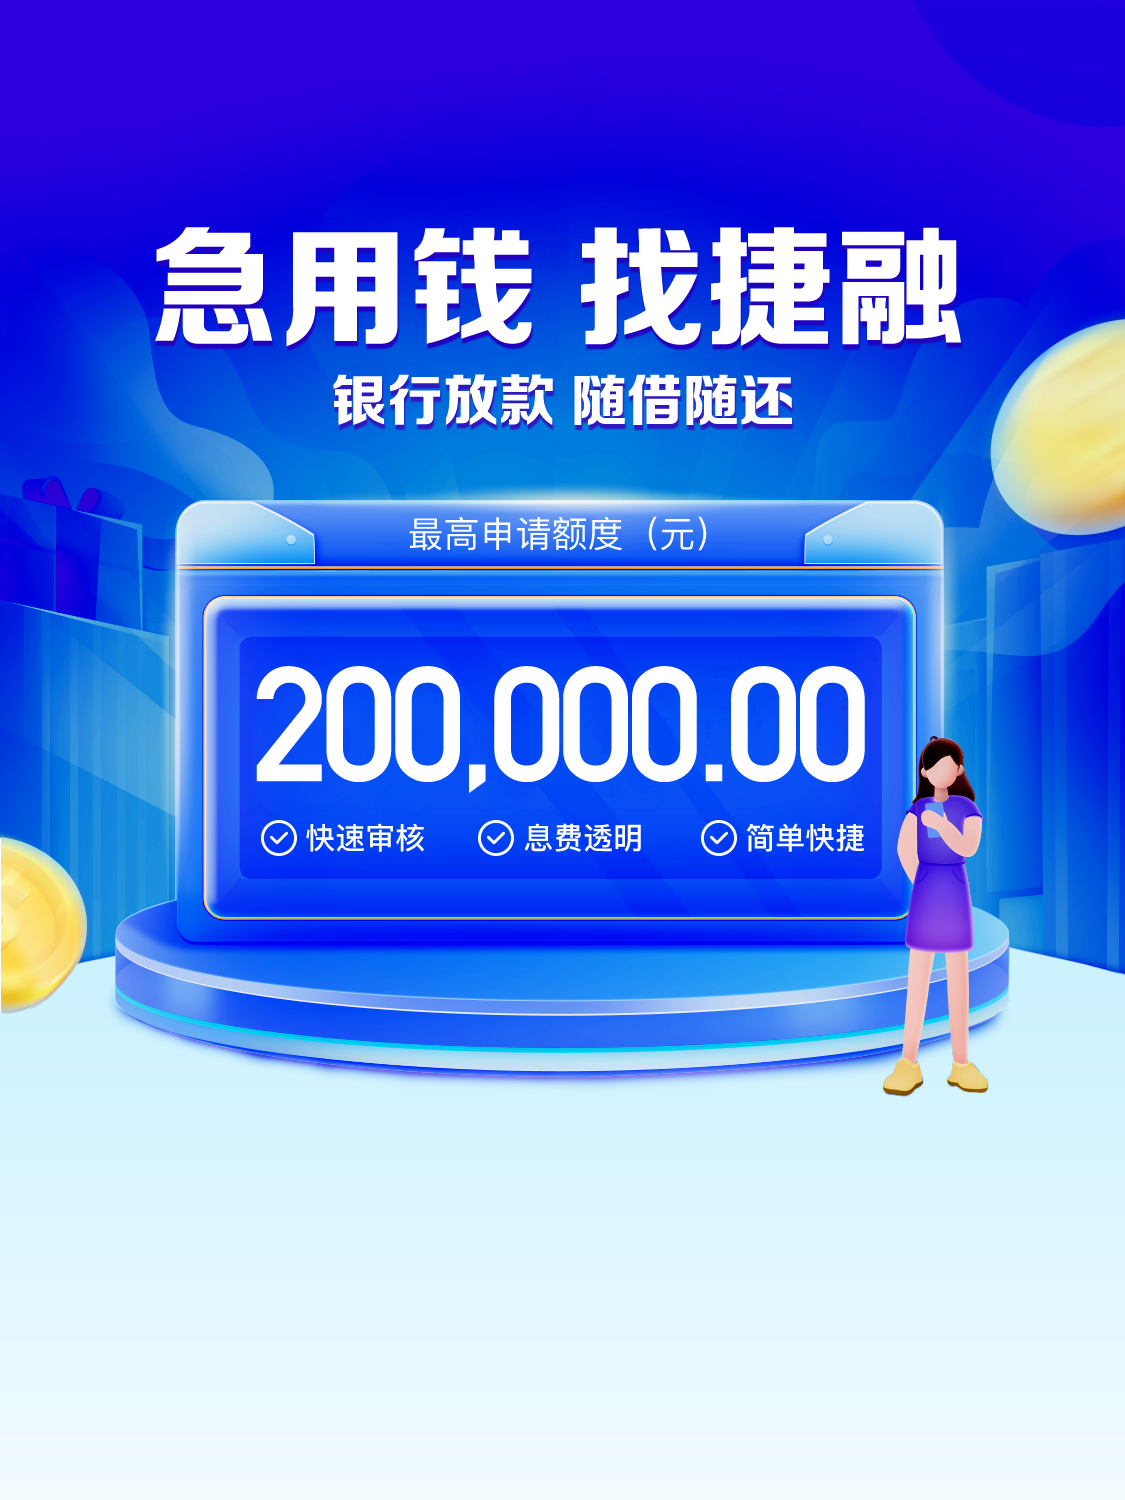
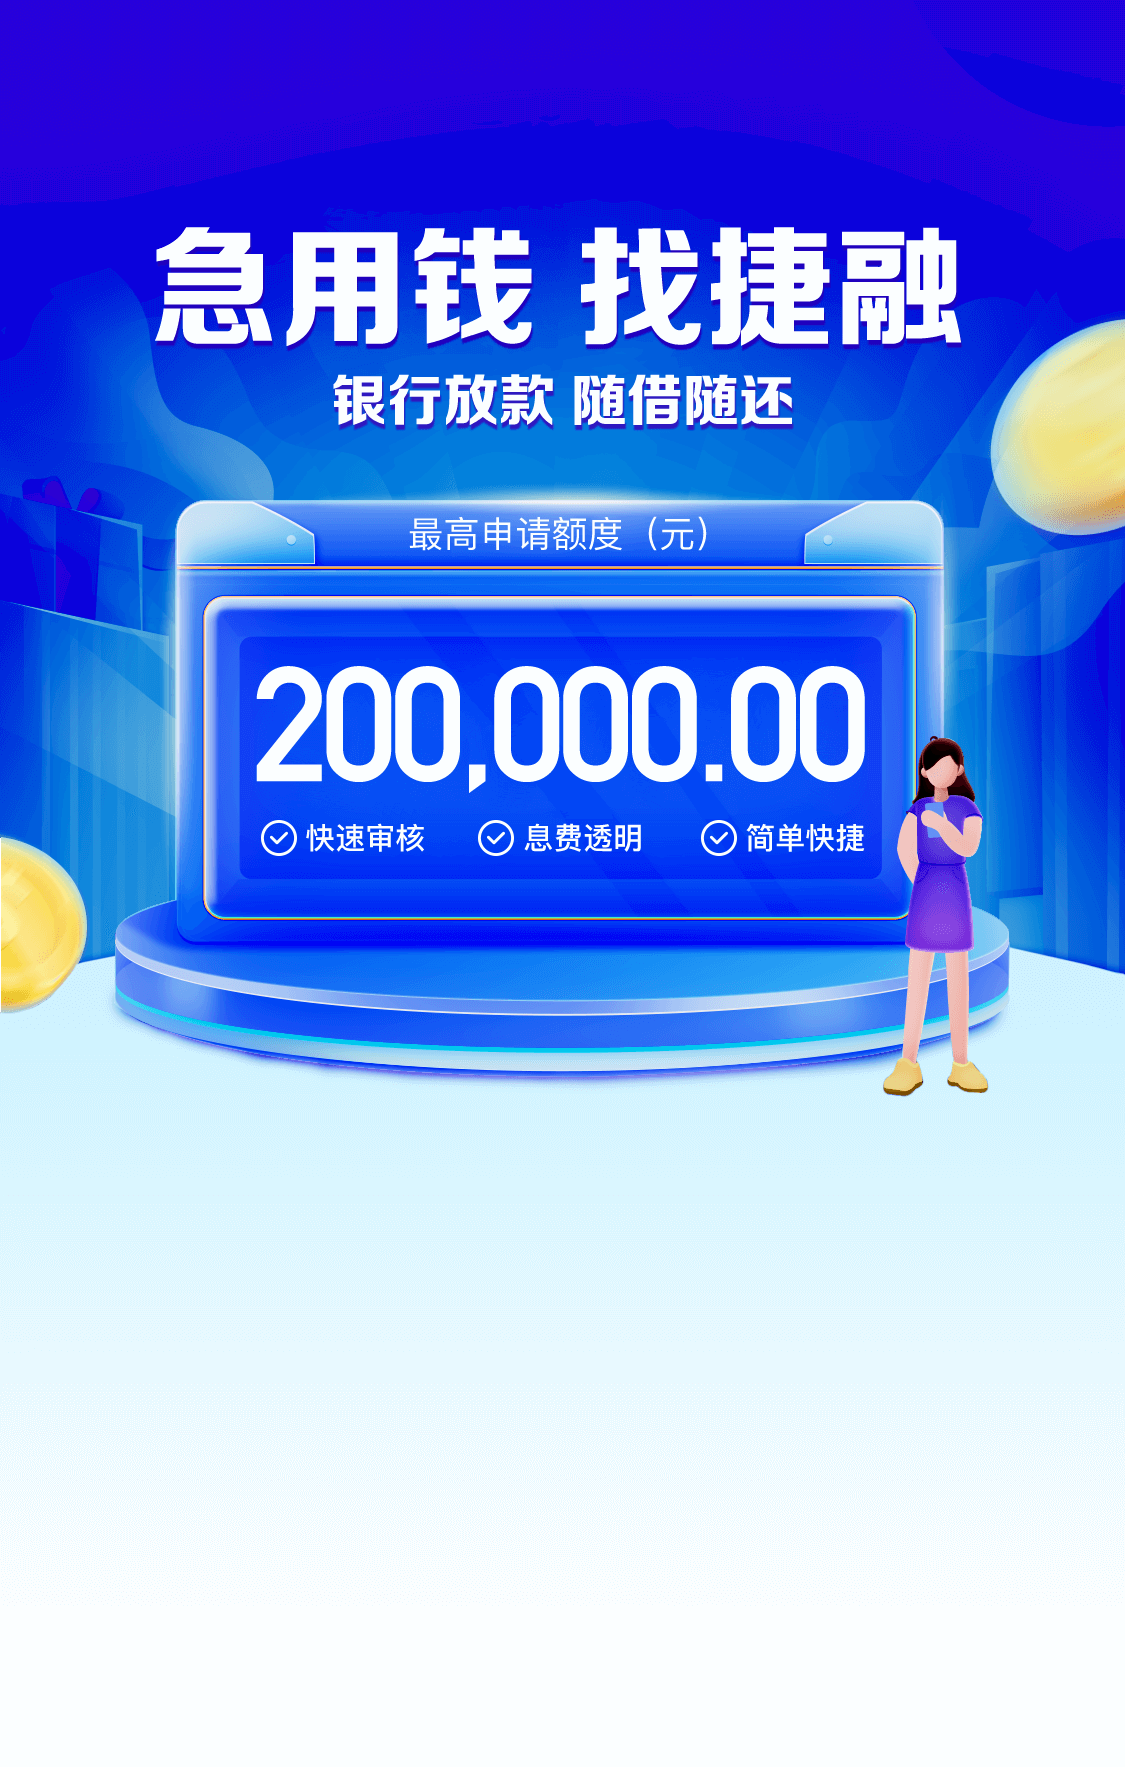
langpage

diff --git a/html/index.html b/html/index.html
@@ -19,18 +19,18 @@
 
 <body>
   <article class="page-page">
+    <h1 class="h1 title">这是h1用于seo页面不显示</h1>
+    <h2 class="h1 title">这是h2用于seo页面不显示</h2>
     <header class="page-header">
       <div class="logo-box"><img src="../img/logo.png" alt="捷融贷" title="捷融贷" class="logo" alt=""></div>
       <div class="right-txt">具体放款金额以审批结果为准</div>
     </header>
     <section class="banner-main">
-      <div class="txt-show">
-        <h3 class="banner-title">温馨提示</h3>
-        <p class="banner-txt">近期无贷款需求者及中介同行请勿申请，以免打扰到您</p>
-        <p class="banner-txt">单位未缴纳社保和公积金，请不要申请。</p>
-        <p class="banner-txt">必须单位正在缴纳，并且连续缴纳一年以上</p>
-        <div class="banner-big">填写咨询&专业贷款顾问服务</div>
-      </div>
+      <h3 class="banner-title">温馨提示</h3>
+      <p class="banner-txt">近期无贷款需求者及中介同行请勿申请，以免打扰到您</p>
+      <p class="banner-txt">单位未缴纳社保和公积金，请不要申请。</p>
+      <p class="banner-txt">必须单位正在缴纳，并且连续缴纳一年以上</p>
+      <div class="banner-big">填写咨询&专业贷款顾问服务</div>
     </section>
     <section class="form-main">
       <form id="form" name="form" action="" onSubmit="return submitFn()">
@@ -41,7 +41,7 @@
           <input type="text" class="inp mobile" name="mobile" maxlength="11" placeholder="请输入手机号">
         </div>
         <div class="form-list">
-          <input type="text" class="inp" name="code" placeholder="请输入验证码">
+          <input type="number" class="inp" name="code" placeholder="请输入验证码">
           <div class="get-code">获取验证码</div>
           <div class="wait-code" style="display: none;">(<span class="num">60</span>s)后获取</div>
         </div>

diff --git a/css/base.css b/css/base.css
@@ -405,7 +405,24 @@ input[type=number] {
 .page-page {
   width: 100%;
   min-height: 100vh;
-  background: #fff url("../img/img08.png") no-repeat center bottom/100%;
+  background-image: url("../img/img02.png"), url("../img/img08.png");
+  background-position: center top, center bottom;
+  background-size: 100%, 100%;
+  background-repeat: no-repeat, no-repeat;
+}
+.page-page .h1, .page-page h2 {
+  position: absolute;
+  z-index: -999;
+  left: -999px;
+  top: -999px;
+}
+.page-page .bg {
+  position: absolute;
+  width: 100%;
+  height: 157.0666666667vw;
+  margin-bottom: 5.7777777778vw;
+  z-index: 1;
+  background: url("../img/img02.png") no-repeat center top/100%;
 }
 .page-page .page-header {
   display: flex;
@@ -435,16 +452,10 @@ input[type=number] {
 }
 .page-page .banner-main {
   position: relative;
-  width: 100%;
-  height: 133.3333333333vw;
-  margin-bottom: 5.7777777778vw;
-  background: url("../img/img02.png") no-repeat center top/100%;
-}
-.page-page .banner-main .txt-show {
-  position: absolute;
   text-align: center;
-  bottom: 0;
-  width: 100%;
+  z-index: 10;
+  padding-top: 102.2222222222vw;
+  margin-bottom: 5.7777777778vw;
 }
 .page-page .banner-main .banner-title {
   font-weight: bold;
@@ -471,8 +482,10 @@ input[type=number] {
   color: #fff;
 }
 .page-page .form-main {
+  position: relative;
   width: 89.4222222222vw;
   margin: 0 auto 0;
+  z-index: 10;
 }
 .page-page .form-main .form-list {
   box-sizing: border-box;
@@ -534,7 +547,7 @@ input[type=number] {
 }
 .page-page .form-main .pact .pact-checkbox {
   vertical-align: middle;
-  margin-top: -2px;
+  margin-top: -3px;
 }
 .page-page .form-main .pact .blue {
   color: #5189ff;
@@ -557,7 +570,7 @@ input[type=number] {
 }
 .page-page .form-main .warning .img {
   vertical-align: middle;
-  margin-top: -2px;
+  margin-top: -3px;
   margin-right: 4px;
   width: 3.7333333333vw;
   height: 3.2888888889vw;
